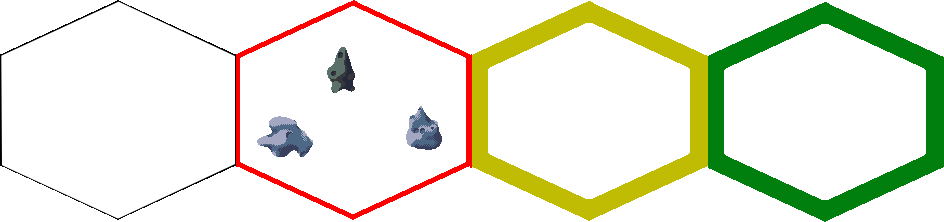
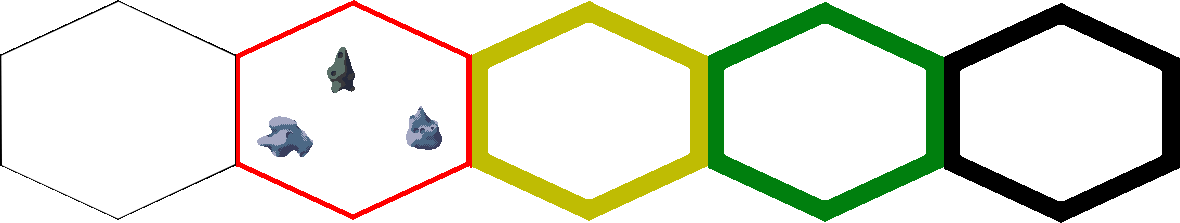
.

diff --git a/Step_X/Views/Tile_Map/Tile_Map.cs b/Step_X/Views/Tile_Map/Tile_Map.cs
@@ -1,24 +1,32 @@
 using Godot;
+using Hex_Space_Rpg.Events;
 
 namespace Hex_Space_Rpg.Views;
 
-public partial class Tile_Map : Node2D
+public partial class Tile_Map : Node2D, IListener<UI_Update_Event>
 {
     private const string Can_Select = "can_select";
+    private Dictionary<Tile_Type, Vector2I> type_to_cord;
+
     private TileMap tile_map;
     private IGrid_Model grid;
-
-    private Vector2I selected_cord = new Vector2I(3, 0);
     private Vector2I? origin;
     private Vector2I highlighted;
 
     public override void _Ready()
     {
         tile_map = GetNode<TileMap>("Tile_Map");
+        type_to_cord = new Dictionary<Tile_Type, Vector2I>
+        {
+            [Tile_Type.Empty] = new Vector2I(4, 0),
+            [Tile_Type.Entity] = new Vector2I(3, 0),
+            [Tile_Type.Immobilized_Entity] = new Vector2I(2, 0)
+        };
 
         grid = Instances.Get<IGrid_Model>();
         grid.Converter = p => tile_map.MapToLocal(p.Value);
         Instances.Get<IDistance_Model>().Init(tile_map.GetUsedRect().Size, Can_select);
+        Mediator.Add_Listener(this);
     }
 
     public override void _Input(InputEvent e)
@@ -40,6 +48,21 @@ public partial class Tile_Map : Node2D
             Clicked(pos);
     }
 
+    public void Handle(UI_Update_Event evnt)
+    {
+        Set_Highlighted_Cell();
+    }
+
+    private void Set_Highlighted_Cell()
+    {
+        var type = grid.Get_Type(highlighted);
+        if (type != Tile_Type.Empty & origin == null)
+            grid.Hover(highlighted);
+        else
+            grid.Clear_Hover();
+        tile_map.SetCell(1, highlighted, 0, type_to_cord[type]);
+    }
+
     private void Clicked(Vector2I pos)
     {
         grid.Select(origin.Value, pos);
@@ -51,10 +74,8 @@ public partial class Tile_Map : Node2D
     {
         if (highlighted != origin)
             Clear_selected(highlighted);
-        if (origin == null)
-            grid.Hover(pos);
         highlighted = pos;
-        tile_map.SetCell(1, pos, 0, selected_cord);
+        Set_Highlighted_Cell();
     }
 
     private void Clear_selected(Vector2I? pos)

diff --git a/Step_X/Models/Grid/Grid_Model.cs b/Step_X/Models/Grid/Grid_Model.cs
@@ -15,7 +15,6 @@ public class Grid_Model : IGrid_Model
     {
         if (hovering != null)
             new Set_Hover_Command(hovering, false);
-        new UI_Update_Event();
     }
 
     public void Hover(Vector2I pos)
@@ -23,8 +22,17 @@ public class Grid_Model : IGrid_Model
         if (hovering != null)
             new Set_Hover_Command(hovering, false);
         hovering = Get_Model(pos);
-        new Set_Hover_Command(hovering, true);
-        new UI_Update_Event();
+        if (hovering != null && !hovering.Movment.Is_Moving)
+            new Set_Hover_Command(hovering, true);
+    }
+
+    public Tile_Type Get_Type(Vector2I pos)
+    {
+        var entity = Get_Model(pos);
+        if (entity == null)
+            return Tile_Type.Empty;
+        else
+            return entity.Movment.Can_Move ? Tile_Type.Entity : Tile_Type.Immobilized_Entity;
     }
 
     public void Select(Vector2I origin, Vector2I target)

diff --git a/Step_X/Models/Entity/Movment_Model.cs b/Step_X/Models/Entity/Movment_Model.cs
@@ -14,6 +14,7 @@ public class Movment_Model :
     private readonly ITimer_Model recharge_timer;
     private Vector2I new_position;
     public IRange_Model Movment_Charges { get; }
+    public bool Can_Move => owner.Is_Alive & !owner.Is_Root();
 
     public Movment_Model(IEntity_Model owner, Movment_Data data)
     {
@@ -46,8 +47,6 @@ public class Movment_Model :
         new Timer_Command(recharge_timer);
         new Move_Event(owner);
     }
-
-    private bool Can_Move => owner.Is_Alive & !owner.Is_Root();
 
     private void Recharge_Done()
     {

diff --git a/Step_X/Core/State_Machine.cs b/Step_X/Core/State_Machine.cs
@@ -1,4 +1,3 @@
-using System.Threading.Tasks;
 using Hex_Space_Rpg.Events;
 using Hex_Space_Rpg.Models;
 
@@ -18,7 +17,6 @@ public class State_Machine<TStats> : IState_Machine<TStats>, IListener<Update_Ev
         {
             if (value.Equals(current))
                 return;
-            System.Console.WriteLine($"{current} => {value}");
             current = value;
             if (on_transition.ContainsKey(value))
                 foreach (var action in on_transition[value])

diff --git a/Step_X/Views/Spaceship_View/Spaceship_View.cs b/Step_X/Views/Spaceship_View/Spaceship_View.cs
@@ -47,7 +47,7 @@ public partial class Spaceship_View : Base_View<ISpaceship_Model>
     private void Update_Visible()
     {
         weapons_view.Visible = Model.Is_Hovering & Model.Is_Alive;
-        armor_hb.Visible = Model.Armor.Length > 0 & Model.Is_Hovering;
+        armor_hb.Visible = Model.Armor.Length > 0 & Model.Is_Hovering & Model.Is_Alive;
         dead_label.Visible = !Model.Is_Alive;
     }
 

diff --git a/Step_X/Interfaces/Grid/IGrid_Model.cs b/Step_X/Interfaces/Grid/IGrid_Model.cs
@@ -2,11 +2,19 @@ using Godot;
 
 namespace Hex_Space_Rpg.Interfaces;
 
+public enum Tile_Type
+{
+    Empty,
+    Entity,
+    Immobilized_Entity
+}
+
 public interface IGrid_Model
 {
     Func<IPosition_Model, Vector2> Converter { get; set; }
 
     void Clear_Hover();
     void Hover(Vector2I pos);
+    Tile_Type Get_Type(Vector2I pos);
     void Select(Vector2I origin, Vector2I target);
 }

diff --git a/Step_X/Interfaces/Grid/IMovment_Model.cs b/Step_X/Interfaces/Grid/IMovment_Model.cs
@@ -8,5 +8,6 @@ public enum Moving_States
 public interface IMovment_Model : IState_Machine<Moving_States>
 {
     bool Is_Moving => State == Moving_States.Moving_From | State == Moving_States.Moving_To;
+    bool Can_Move { get; }
     IRange_Model Movment_Charges { get; }
 }
